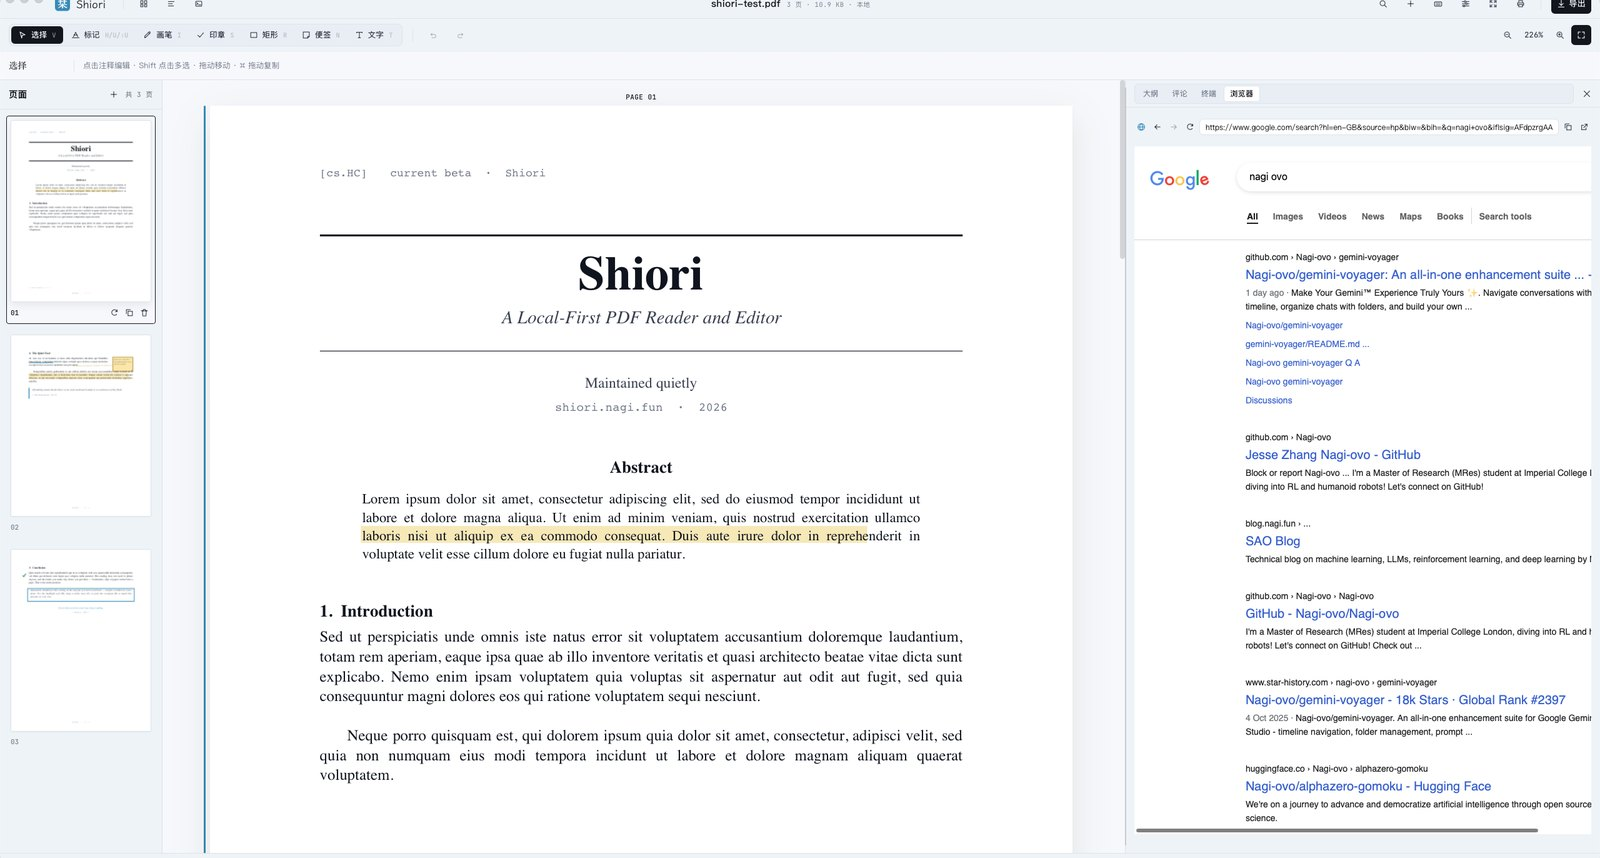
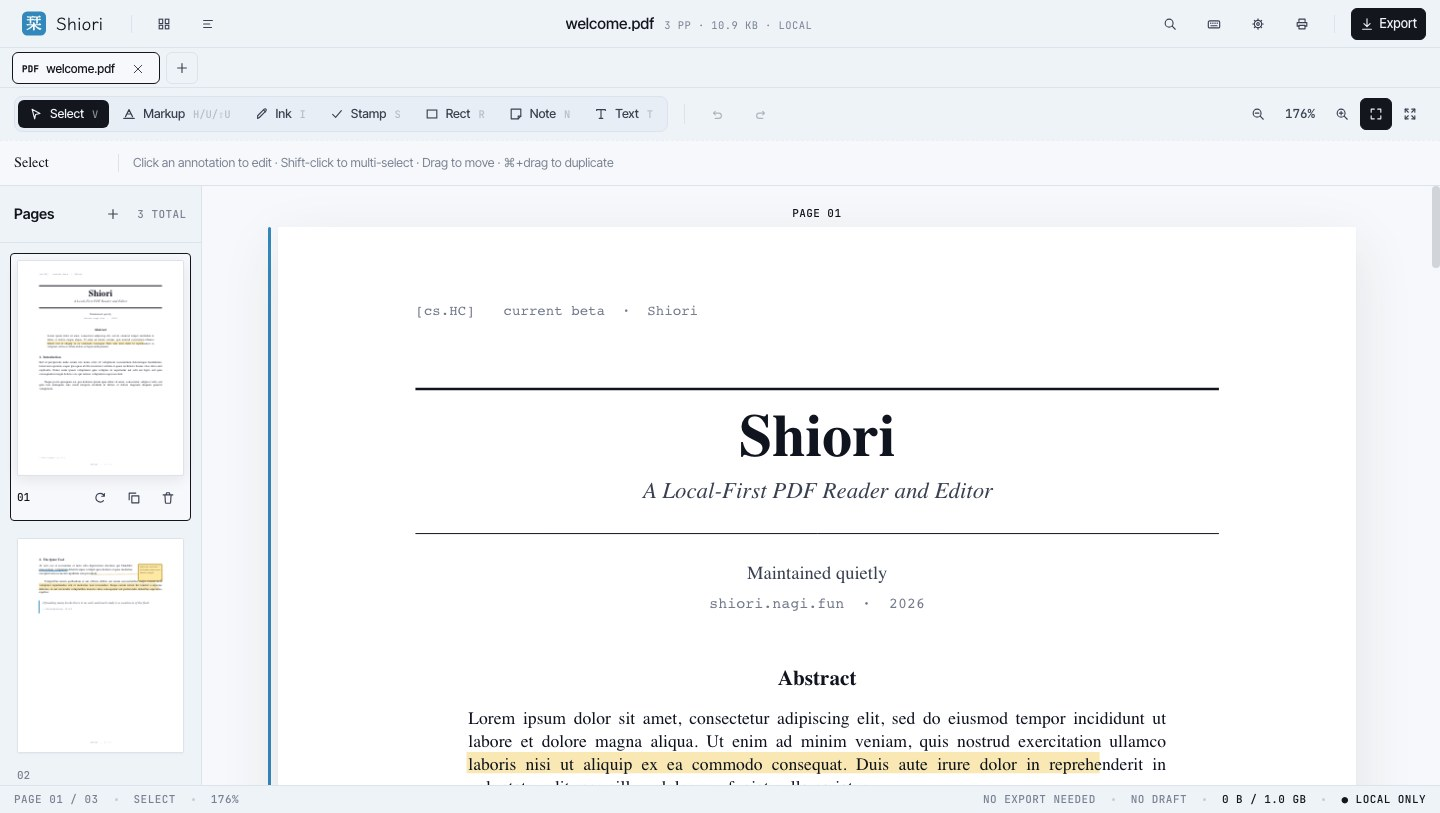
Replace README mockups with real app screenshots
Remove the updater manifest from the public README navigation and replace the synthetic Markdown/HTML preview image with real Shiori screenshots captured through the app file-open flow.

diff --git a/README.md b/README.md
@@ -19,9 +19,7 @@
 <p align="center">
   <a href="https://shiori.nagi.fun">Website</a>
   ·
-  <a href="https://github.com/Nagi-ovo/shiori-releases/releases/latest">Latest release</a>
-  ·
-  <a href="https://updates.shiori.nagi.fun/alpha/latest.json">Updater manifest</a>
+  <a href="https://github.com/Nagi-ovo/shiori-releases/releases/latest">Downloads</a>
 </p>
 
 ![Shiori home screen](./assets/screenshots/home-en.jpg)
@@ -48,7 +46,9 @@ tabs, per-document state, and session restore.
 
 ![PDF workspace with thumbnails, annotations, and side panel](./assets/screenshots/pdf-workspace.jpg)
 
-![Markdown and HTML document previews](./assets/screenshots/text-documents-en.jpg)
+![Markdown document preview](./assets/screenshots/markdown-document.jpg)
+
+![HTML document running in Shiori](./assets/screenshots/html-document.jpg)
 
 ## Downloads
 
@@ -65,15 +65,14 @@ Installers are published on the
 | Google Play | Coming soon | Google Play |
 | iOS / iPadOS | Coming soon | App Store / TestFlight |
 
-Desktop auto-update reads the signed manifest at
-[`alpha/latest.json`](https://updates.shiori.nagi.fun/alpha/latest.json).
-Android direct-install builds download and verify the APK before handing it to
-the Android package installer. Store builds are updated by their stores and are
-not mirrored here as `.aab` or `.ipa` files.
+Desktop and Android direct-install builds can update from inside Shiori. Android
+direct-install builds download and verify the APK before handing it to the
+Android package installer. Store builds are updated by their stores and are not
+mirrored here as `.aab` or `.ipa` files.
 
 ## About This Repository
 
 This repository is a release archive only. It hosts downloadable builds, updater
-signatures, localized release notes, screenshots, and the public update
-manifest. The Shiori source repository is private, and discussions, feature
-requests, and bug reports are handled outside this repo.
+signatures, localized release notes, and screenshots. The Shiori source
+repository is private, and discussions, feature requests, and bug reports are
+handled outside this repo.

diff --git a/README.zh-CN.md b/README.zh-CN.md
@@ -19,9 +19,7 @@
 <p align="center">
   <a href="https://shiori.nagi.fun">官网</a>
   ·
-  <a href="https://github.com/Nagi-ovo/shiori-releases/releases/latest">最新版本</a>
-  ·
-  <a href="https://updates.shiori.nagi.fun/alpha/latest.json">更新 manifest</a>
+  <a href="https://github.com/Nagi-ovo/shiori-releases/releases/latest">下载</a>
 </p>
 
 ![Shiori 中文首页](./assets/screenshots/home-zh-CN.jpg)
@@ -45,7 +43,9 @@ PDF 批注是核心工作流；现在也支持 Markdown 与 HTML 预览、多标
 
 ![PDF 工作区：缩略图、批注与侧栏](./assets/screenshots/pdf-workspace.jpg)
 
-![Markdown 与 HTML 文档预览](./assets/screenshots/text-documents-zh-CN.jpg)
+![Markdown 文档预览](./assets/screenshots/markdown-document.jpg)
+
+![HTML 文档在 Shiori 中运行](./assets/screenshots/html-document.jpg)
 
 ## 下载
 
@@ -62,12 +62,11 @@ PDF 批注是核心工作流；现在也支持 Markdown 与 HTML 预览、多标
 | Google Play | 敬请期待 | Google Play |
 | iOS / iPadOS | 敬请期待 | App Store / TestFlight |
 
-桌面端自动更新读取已签名的
-[`alpha/latest.json`](https://updates.shiori.nagi.fun/alpha/latest.json)。
-Android 直装版会在应用内下载并校验 APK，然后交给 Android 系统安装器。商店版由
-对应商店更新，不会在这里镜像 `.aab` 或 `.ipa`。
+桌面端和 Android 直装版都可以在 Shiori 内更新。Android 直装版会在应用内下载并
+校验 APK，然后交给 Android 系统安装器。商店版由对应商店更新，不会在这里镜像
+`.aab` 或 `.ipa`。
 
 ## 关于这个仓库
 
-这个仓库只作为发布归档使用：托管安装包、更新签名、本地化 release notes、截图和
-公开更新 manifest。Shiori 源码仓库是私有仓库；讨论、功能请求和 bug 反馈不在这里处理。
+这个仓库只作为发布归档使用：托管安装包、更新签名、本地化 release notes 和截图。
+Shiori 源码仓库是私有仓库；讨论、功能请求和 bug 反馈不在这里处理。
